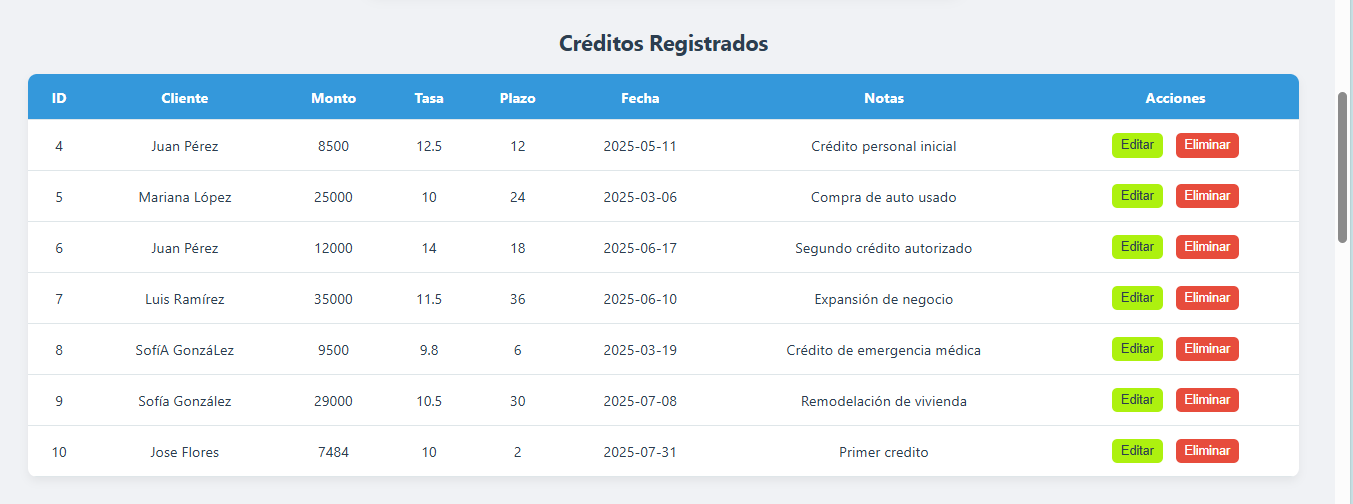
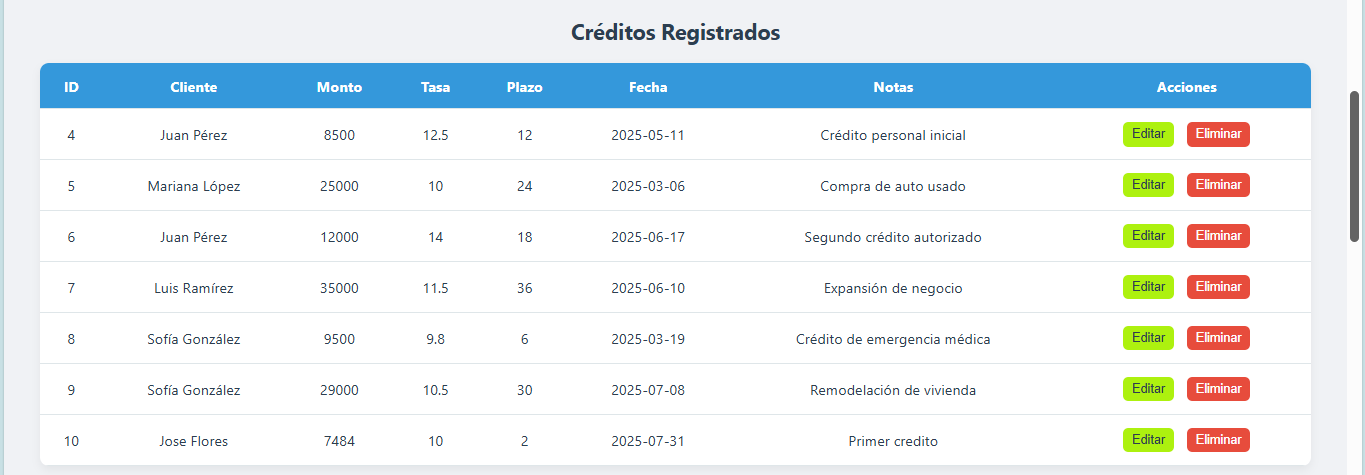
Corrige capitalización con acentos y scroll al formulario al editar

diff --git a/templates/index.html b/templates/index.html
@@ -45,147 +45,150 @@
   </div>
 
   <script>
-  function capitalizarNombre() {
-    const cliente = document.getElementById('cliente');
-    cliente.value = cliente.value
-      .trim()
-      .toLowerCase()
-      .replace(/\b\w/g, c => c.toUpperCase());
-  }
+    function capitalizarNombre() {
+      const cliente = document.getElementById('cliente');
+      cliente.value = cliente.value
+        .trim()
+        .toLowerCase()
+        .split(' ')
+        .map(p => p.charAt(0).toUpperCase() + p.slice(1))
+        .join(' ');
+    }
 
-  function capitalizarNotas() {
-    const notas = document.getElementById('notas');
-    notas.value = notas.value.trim()
-      .replace(/(^\w{1}|\.\s*\w{1})/g, l => l.toUpperCase());
-  }
+    function capitalizarNotas() {
+      const notas = document.getElementById('notas');
+      notas.value = notas.value.trim()
+        .replace(/(^\w{1}|\.\s*\w{1})/g, l => l.toUpperCase());
+    }
 
-  function limpiarErrores() {
-    document.querySelectorAll('input, textarea').forEach(el => {
-      el.classList.remove('error');
-    });
-  }
+    function limpiarErrores() {
+      document.querySelectorAll('input, textarea').forEach(el => {
+        el.classList.remove('error');
+      });
+    }
 
-  async function cargarCreditos() {
-    const res = await fetch('/api/creditos');
-    const datos = await res.json();
-    const tbody = document.querySelector("#tabla-creditos tbody");
-    tbody.innerHTML = "";
-    datos.forEach(c => {
-      const fila = document.createElement("tr");
-      fila.innerHTML = `
-        <td>${c[0]}</td>
-        <td>${c[1]}</td>
-        <td>${c[2]}</td>
-        <td>${c[3]}</td>
-        <td>${c[4]}</td>
-        <td>${c[5]}</td>
-        <td>${c[6]}</td>
-        <td class="acciones">
-          <button class="editar" onclick="editarCredito(${c[0]}, '${c[1]}', ${c[2]}, ${c[3]}, ${c[4]}, '${c[5]}', '${c[6]}')">Editar</button>
-          <button class="eliminar" onclick="eliminarCredito(${c[0]})">Eliminar</button>
-        </td>
-      `;
-      tbody.appendChild(fila);
-    });
+    async function cargarCreditos() {
+      const res = await fetch('/api/creditos');
+      const datos = await res.json();
+      const tbody = document.querySelector("#tabla-creditos tbody");
+      tbody.innerHTML = "";
+      datos.forEach(c => {
+        const fila = document.createElement("tr");
+        fila.innerHTML = `
+          <td>${c[0]}</td>
+          <td>${c[1]}</td>
+          <td>${c[2]}</td>
+          <td>${c[3]}</td>
+          <td>${c[4]}</td>
+          <td>${c[5]}</td>
+          <td>${c[6]}</td>
+          <td class="acciones">
+            <button class="editar" onclick="editarCredito(${c[0]}, '${c[1]}', ${c[2]}, ${c[3]}, ${c[4]}, '${c[5]}', '${c[6]}')">Editar</button>
+            <button class="eliminar" onclick="eliminarCredito(${c[0]})">Eliminar</button>
+          </td>
+        `;
+        tbody.appendChild(fila);
+      });
 
-    actualizarGraficas();
-  }
+      actualizarGraficas();
+    }
 
-  function editarCredito(id, cliente, monto, tasa, plazo, fecha, notas) {
-    document.getElementById('id').value = id;
-    document.getElementById('cliente').value = cliente;
-    document.getElementById('monto').value = monto;
-    document.getElementById('tasa_interes').value = tasa;
-    document.getElementById('plazo').value = plazo;
-    document.getElementById('fecha_otorgamiento').value = fecha;
-    document.getElementById('notas').value = notas;
+    function editarCredito(id, cliente, monto, tasa, plazo, fecha, notas) {
+      document.getElementById('id').value = id;
+      document.getElementById('cliente').value = cliente;
+      document.getElementById('monto').value = monto;
+      document.getElementById('tasa_interes').value = tasa;
+      document.getElementById('plazo').value = plazo;
+      document.getElementById('fecha_otorgamiento').value = fecha;
+      document.getElementById('notas').value = notas;
 
-    // Scroll suave hacia el formulario al editar
-    document.getElementById('formulario').scrollIntoView({ behavior: 'smooth' });
-  }
+      // Hacer scroll hacia el formulario
+      document.getElementById('formulario').scrollIntoView({ behavior: 'smooth' });
+    }
 
-  async function eliminarCredito(id) {
-    if (confirm("¿Estás seguro de que deseas eliminar este crédito?")) {
-      await fetch(`/api/creditos/${id}`, { method: "DELETE" });
+    async function eliminarCredito(id) {
+      if (confirm("¿Estás seguro de que deseas eliminar este crédito?")) {
+        await fetch(`/api/creditos/${id}`, { method: "DELETE" });
+        cargarCreditos();
+      }
+    }
+
+    document.getElementById('formulario').addEventListener('submit', async function (e) {
+      e.preventDefault();
+      limpiarErrores();
+
+      const cliente = document.getElementById('cliente');
+      const monto = document.getElementById('monto');
+      const tasa = document.getElementById('tasa_interes');
+      const plazo = document.getElementById('plazo');
+      const fecha = document.getElementById('fecha_otorgamiento');
+      const notas = document.getElementById('notas');
+      const id = document.getElementById('id').value;
+
+      // Capitalización
+      capitalizarNombre();
+      capitalizarNotas();
+
+      // Validaciones con retroalimentación visual
+      if (cliente.value.trim() === "" || !cliente.value.match(/^[A-Za-zÁÉÍÓÚáéíóúñÑ ]+$/)) {
+        cliente.classList.add('error');
+        return alert("El nombre del cliente es inválido.");
+      }
+
+      if (parseFloat(monto.value) <= 0 || isNaN(monto.value)) {
+        monto.classList.add('error');
+        return alert("El monto debe ser un número positivo.");
+      }
+
+      if (parseFloat(tasa.value) <= 0 || parseFloat(tasa.value) > 100 || isNaN(tasa.value)) {
+        tasa.classList.add('error');
+        return alert("La tasa de interés debe estar entre 0 y 100.");
+      }
+
+      if (parseInt(plazo.value) <= 0 || isNaN(plazo.value)) {
+        plazo.classList.add('error');
+        return alert("El plazo debe ser un número entero positivo.");
+      }
+
+      if (!fecha.value.match(/^\d{4}-\d{2}-\d{2}$/)) {
+        fecha.classList.add('error');
+        return alert("La fecha debe tener el formato YYYY-MM-DD.");
+      }
+
+      const data = {
+        cliente: cliente.value,
+        monto: parseFloat(monto.value),
+        tasa: parseFloat(tasa.value),
+        plazo: parseInt(plazo.value),
+        fecha: fecha.value,
+        notas: notas.value
+      };
+
+      if (id) {
+        await fetch(`/api/creditos/${id}`, {
+          method: "PUT",
+          headers: { "Content-Type": "application/json" },
+          body: JSON.stringify(data)
+        });
+      } else {
+        await fetch("/api/creditos", {
+          method: "POST",
+          headers: { "Content-Type": "application/json" },
+          body: JSON.stringify(data)
+        });
+      }
+
+      document.getElementById('formulario').reset();
       cargarCreditos();
-    }
-  }
+    });
 
-  document.getElementById('formulario').addEventListener('submit', async function (e) {
-    e.preventDefault();
-    limpiarErrores();
-
-    const cliente = document.getElementById('cliente');
-    const monto = document.getElementById('monto');
-    const tasa = document.getElementById('tasa_interes');
-    const plazo = document.getElementById('plazo');
-    const fecha = document.getElementById('fecha_otorgamiento');
-    const notas = document.getElementById('notas');
-    const id = document.getElementById('id').value;
-
-    // Capitalización
-    capitalizarNombre();
-    capitalizarNotas();
-
-    // Validaciones con retroalimentación visual
-    if (cliente.value.trim() === "" || !cliente.value.match(/^[A-Za-zÁÉÍÓÚáéíóúñÑ ]+$/)) {
-      cliente.classList.add('error');
-      return alert("El nombre del cliente es inválido.");
+    function actualizarGraficas() {
+      document.getElementById('graficaTotal').src = "/grafica?" + new Date().getTime();
+      document.getElementById('graficaCliente').src = "/grafica2?" + new Date().getTime();
     }
 
-    if (parseFloat(monto.value) <= 0 || isNaN(monto.value)) {
-      monto.classList.add('error');
-      return alert("El monto debe ser un número positivo.");
-    }
-
-    if (parseFloat(tasa.value) <= 0 || parseFloat(tasa.value) > 100 || isNaN(tasa.value)) {
-      tasa.classList.add('error');
-      return alert("La tasa de interés debe estar entre 0 y 100.");
-    }
-
-    if (parseInt(plazo.value) <= 0 || isNaN(plazo.value)) {
-      plazo.classList.add('error');
-      return alert("El plazo debe ser un número entero positivo.");
-    }
-
-    if (!fecha.value.match(/^\d{4}-\d{2}-\d{2}$/)) {
-      fecha.classList.add('error');
-      return alert("La fecha debe tener el formato YYYY-MM-DD.");
-    }
-
-    const data = {
-      cliente: cliente.value,
-      monto: parseFloat(monto.value),
-      tasa: parseFloat(tasa.value),
-      plazo: parseInt(plazo.value),
-      fecha: fecha.value,
-      notas: notas.value
-    };
-
-    if (id) {
-      await fetch(`/api/creditos/${id}`, {
-        method: "PUT",
-        headers: { "Content-Type": "application/json" },
-        body: JSON.stringify(data)
-      });
-    } else {
-      await fetch("/api/creditos", {
-        method: "POST",
-        headers: { "Content-Type": "application/json" },
-        body: JSON.stringify(data)
-      });
-    }
-
-    document.getElementById('formulario').reset();
     cargarCreditos();
-  });
-
-  function actualizarGraficas() {
-    document.getElementById('graficaTotal').src = "/grafica?" + new Date().getTime();
-    document.getElementById('graficaCliente').src = "/grafica2?" + new Date().getTime();
-  }
-
-  cargarCreditos();
   </script>
 </body>
 </html>
+
